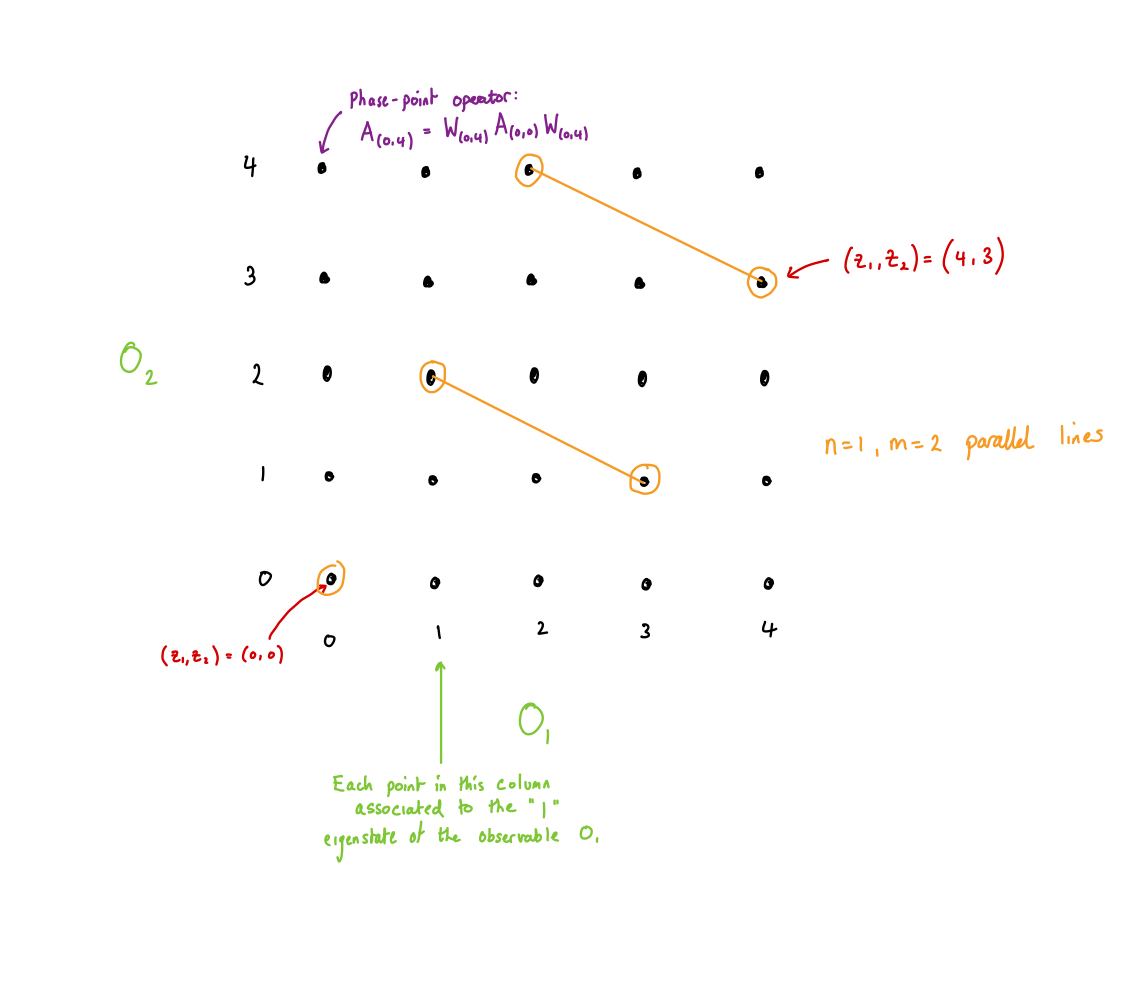
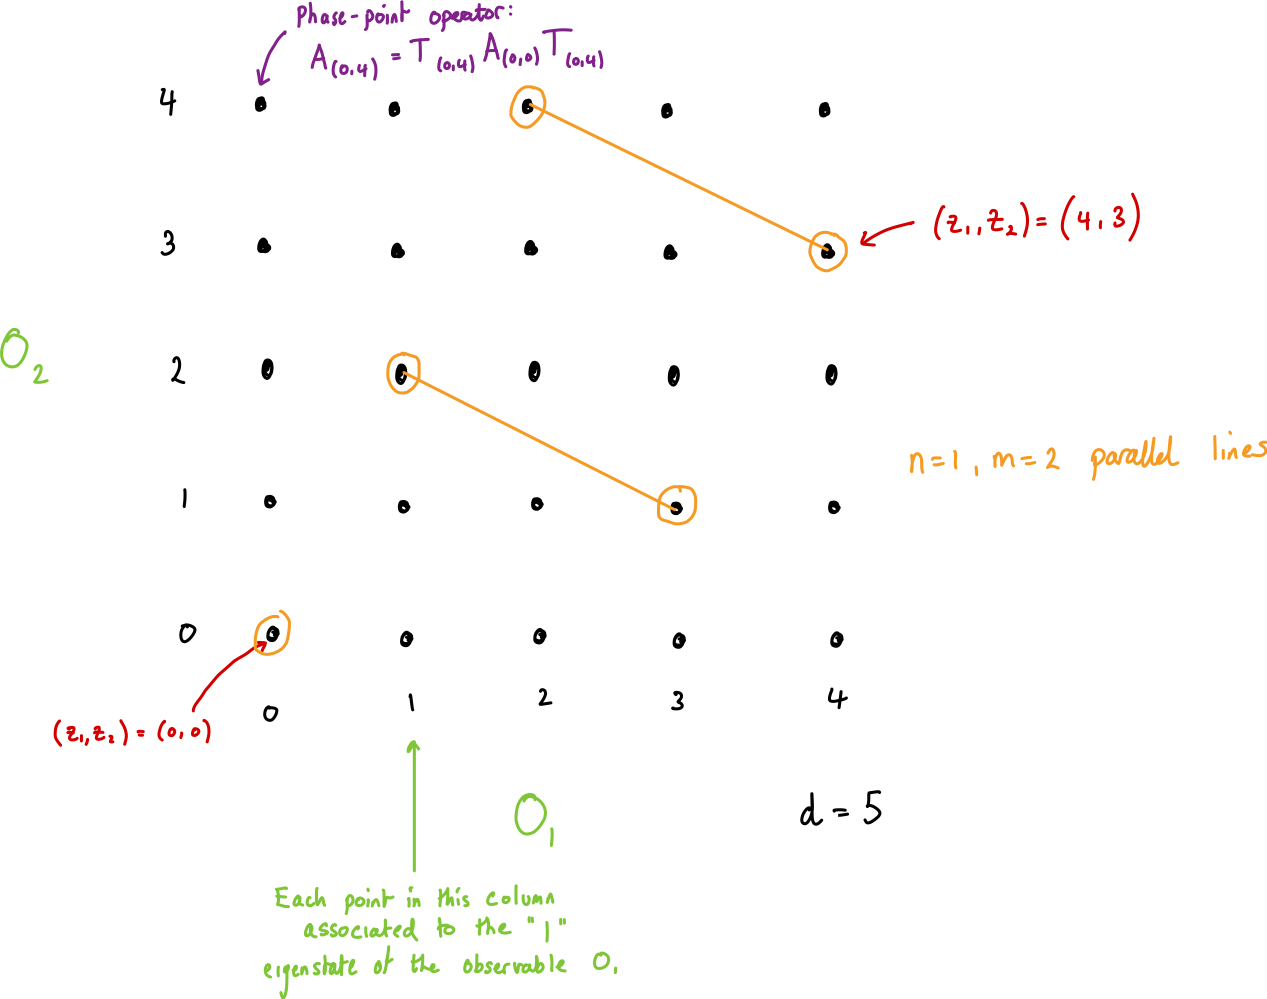
added to the Wigner function page again and made a few typo changes elsehwhere

diff --git a/QuantumInformationFile/QuantumInfo7_wignerFunctions.md b/QuantumInformationFile/QuantumInfo7_wignerFunctions.md
@@ -34,11 +34,53 @@ Let $\rho \in \mathcal{H}^d$ be the density operator of a particle that is able 
 \begin{equation}
 W^{\rho}(q, p) = \frac{1}{\pi \hbar} \int \bra{q-x} \rho \ket{q+x} e^{\frac{2ipx}{h}} dx,
 \end{equation}
-where $ q $ and $ p $ are the position and momentum operators (they could also be quadratures when considered quantum optics). 
+where $ q $ and $ p $ are the position and momentum operators (they could also be [quadratures](https://en.wikipedia.org/wiki/Optical_phase_space) when considered quantum optics). 
 
 Here, we will only consider the Wigner function for position and momentum, see https://doi.org/10.1002/qute.202100016 for details on the Wigner function for arbitrary operators. 
 
-**Properties** 
+**Properties of the Continuous Winger Function** 
+(winger_function_proerties_continious)=
+::::{tab-set}
+:::{tab-item} Normalisation
+:sync: tab1
+
+The Wigner function is normalised, 
+\begin{equation}
+\int \int W^{\rho}(p, q) dq ~ dp = 1.
+\end{equation}
+
+:::
+:::{tab-item} Inner Product 
+:sync: tab2
+
+Let $\rho, \rho' \in \mathcal{H}^d$ have Wigner functions $W^{\rho}(q,p)$ and $W^{\rho'}(q,p)$ respectively, then 
+\begin{equation}
+\textrm{tr}\big[ \rho \rho' \big] = \int \int W^{\rho}(q, p) W^{\rho'}(q, p) dq ~ dp.
+\end{equation}
+
+:::
+:::{tab-item} Observables
+:sync: tab3
+
+Let $O=a p + b q$ be an observable, where $a, b \in \mathbb{R}$, then 
+\begin{equation}
+P(c_1 \leq O \leq c_2) = \int_{c_1}^{c_2} \int_{c_1}^{c_2} W^{\rho}(p, q) dq ~ dp,
+\end{equation}
+where $c_1, c_2 \in \mathbb{R}$, and $P(\cdot)$ means the probability of getting the measurement outcome $(\cdot)$ if one measures $O$ on $ \rho $.
+
+:::
+:::{tab-item} Marginals 
+:sync: tab4
+
+The Wigner function can be used to find the marginals of the distribution as 
+\begin{align*}
+\int W^{\rho}(q,p) dp &= \bra{x} \rho \ket{x}, \\
+\int W^{\rho}(q,p) dq &= \bra{p} \rho \ket{p}.
+\end{align*}
+
+::::
+
+<!-- **Properties** 
 (winger_function_proerties_continious)=
 1. The Wigner function is normalised, 
 \begin{equation}
@@ -57,7 +99,7 @@ where $c_1, c_2 \in \mathbb{R}$, and $P(\cdot)$ means the probability of getting
 \begin{align*}
 \int W^{\rho}(q,p) dp &= \bra{x} \rho \ket{x}, \\
 \int W^{\rho}(q,p) dq &= \bra{p} \rho \ket{p}.
-\end{align*}
+\end{align*} -->
 
 
 ### Phase Space
@@ -66,7 +108,7 @@ The phase space on which the Wigner function is defined is $\mathbb{R}^2$. This 
 
 ### Phase Point Operators 
 
-The Wigner function for a state can be calculated using the so-called phase-point operators. These are a set of Hermitian operators, $\{A(q,p)\}$, so that there exists one operator for each point in phase space. 
+The Wigner function for a state can be calculated using the so-called phase-point operators. These are a set of Hermitian operators, $\{A(q,p)\}$. There exists one phase-point operator for each point in phase space. 
 
 The phase-point operators are defined such that 
 \begin{equation}
@@ -90,7 +132,9 @@ If the phase-point operators obey these properties, then the Winger functions ob
 
 Note, when considering the Wigner function for general operators, the phase point operators can be defined in terms of the action of a displacement operator on a fixed initial phase-point operator (as will be seen in the discrete case below). See https://doi.org/10.1002/qute.202100016 detail of this.
 
-The Wigner function is not the unique function that is able to represent quantum system. Each of the different formulations put forward have different merits, and hence can be useful in different situations. However, the Wigner is the mostly commonly used in the literature as it a) has the correct marginals ([property 4](#winger_function_proerties_continious) above), and b) it is the distribution for which the phase-point operators can be used to both decompose the state with coefficients of the Wigner function, and to calculate the Wigner function as the trace of the product of the phase-point operators and $\rho$. Other formulations require different states for these two operations. Again, see https://doi.org/10.1002/qute.202100016 for more details. 
+**Uniqueness**
+
+The Wigner function is not the unique function that is able to represent quantum systems. Each of the different formulations put forward have different merits, and hence can be useful in different situations. However, the Wigner function is the mostly commonly used in the literature as it a) has the correct marginals, and b) it is the function for which the phase-point operators can be used to both decompose the state with coefficients of the Wigner function, and to calculate the Wigner function as the trace of the product of the phase-point operators and $ \rho $. Other formulations require different operators for these two operations. Again, see https://doi.org/10.1002/qute.202100016 for more details on this. 
 
 ## Discrete Systems
 
@@ -110,7 +154,7 @@ Each axis of the space is represented by an observable. If the horizontal axis i
 
 ### Phase-point Operators 
 
-Each point in phase space is associated an Hermitian operator $A_{\bm{z}}$, giving a set of operators $\{ A_{\bm{z} }\}^{d^2}$. Each operators has the following properties: 
+Each point in phase space is associated an Hermitian operator $A_{\bm{z}}$, giving a set of operators $\{ A_{\bm{z} }\}^{d^2}$, one for each point in phase space. Each operator obeys the following properties: 
 (conditions_on_phase_point_operators)=
 1. $\textrm{tr} \big[ A_{\bm{z}} \big] = 1 ~ \forall ~ \bm{z} \in \mathbb{Z}_d \times \mathbb{Z}_d$.
 2. $\textrm{tr} \big[ A_{\bm{z_i}} A_{\bm{z_j}} \big] = d \delta_{i,j} ~ \forall ~ \bm{z_i}, \bm{z_j} \in \mathbb{Z}_d \times \mathbb{Z}_d$.
@@ -150,6 +194,14 @@ The phase point operators are then defined in terms of the Heisenberg-Weyl opera
 A_{\bm{0}} = \frac{1}{d} \sum_{\bm{z} \in \mathbb{Z}_d \times \mathbb{Z}_d} T_{\bm{z}}, ~ ~ ~ A_{\bm{z}} = T_{\bm{z}}A_{\bm{0}} T_{\bm{z}}. 
 \end{equation}
 
+**Additional Phase-point Operator Properties**
+1. $A_{\bm{z}}^{\dagger} = A_{\bm{z}}$
+    - They are Hermitian. 
+2. $\frac{1}{d}\sum_{\bm{z} \in \mathbb{Z}_d \times \mathbb{Z}_d} A_{\bm{z}} = \mathbb{I}$.
+    - They sum to the identity. 
+3. $ \{ A_{\bm{z}} \} = \{ A_{\bm{z}}^{t} \}$
+    - Taking the transpose off all elements of the set gives back the set.
+
 ```{figure} quantumInfo_phaseSpaceImage.png
 :alt: 
 :class: bg-primary
@@ -162,23 +214,23 @@ A graphical depiction of the phase space for the discrete Wigner function.
 
 ### The Discrete Wigner Function 
 
-Let $\rho \in \mathcal{H}^{d}$. Given [condition 2](#conditions_on_phase_point_operators) stated above in the list of properties of phase-point operators, the set of phase-point operators form a complete basis for the set of $d \times d$ Hermitian matrices. The discrete Wigner function, denoted $W^{\rho}_{\bm{z}}$ at the point $\bm{z}$ for the state $ \rho $, is then defined as
+Let $\rho \in \mathcal{H}^{d}$. Given [condition 2](#conditions_on_phase_point_operators) stated above in the list of properties of phase-point operators, the set of phase-point operators form a complete basis for the set of $d \times d$ Hermitian matrices. The discrete Wigner function, denoted $W^{\rho}(\bm{z})$ at the point $\bm{z}$ for the state $ \rho $, is then defined as
 \begin{equation}
-\rho = \sum_{\bm{z} \in \mathbb{Z}_d \times \mathbb{Z}_d }   W^{\rho}_{\bm{z}} A_{\bm{z}}, 
+\rho = \sum_{\bm{z} \in \mathbb{Z}_d \times \mathbb{Z}_d }   W^{\rho}(\bm{z}) A_{\bm{z}}, 
 \end{equation}
 such that 
 \begin{equation}
-W^{\rho}_{\bm{z}} = \frac{1}{d} \textrm{tr} \big[ \rho A_{\bm{z}} \big].
+W^{\rho}(\bm{z}) = \frac{1}{d} \textrm{tr} \big[ \rho A_{\bm{z}} \big].
 \end{equation}
 
 The discrete Wigner function then satisfies the following properties
 (discrete_winger_function_conditions)=
-1. $ \sum_{\bm{z} \in \mathbb{Z}_d \times \mathbb{Z}_d } W^{\rho}_{\bm{z}} = 1$. 
-2. Let $\rho, \rho' \in \mathcal{H}^d$ have Wigner functions $W^{\rho}$ and $W^{\rho'}$ respectively, then 
+1. $ \sum_{\bm{z} \in \mathbb{Z}_d \times \mathbb{Z}_d } W^{\rho}(\bm{z}) = 1$. 
+2. Let $\rho, \rho' \in \mathcal{H}^d$ have Wigner functions $W^{\rho}(\bm{z})$ and $W^{\rho'}(\bm{z})$ respectively, then 
 \begin{equation}
-\textrm{tr} \big[ \rho \rho' \big] = d \sum_{\bm{z} \in \mathbb{Z}_d \times \mathbb{Z}_d } W^{\rho}_{\bm{z}} W^{\rho'}_{\bm{z}}.
+\textrm{tr} \big[ \rho \rho' \big] = d \sum_{\bm{z} \in \mathbb{Z}_d \times \mathbb{Z}_d } W^{\rho}(\bm{z}) W^{\rho'}(\bm{z}).
 \end{equation}
-3. The phase space can be foliated into a set of $d$ parallel lines. For each line, given by $ \lambda $, the sum over the Wigner functions for the points in $ \lambda $, $p_{\lambda} = \sum_{\lambda} W^{\rho}_\lambda$, describes the probability of a measurement associated to that foliation. The eigenstate associated to this measurement is that of the projection operator, given in [condition 3](#conditions_on_phase_point_operators), for the given foliation. 
+3. The phase space can be foliated into a set of $d$ parallel lines. For each line, given by $ \lambda $, the sum over the Wigner functions for the points in $ \lambda $, $p_{\lambda} = \sum_{\lambda} W^{\rho}_\lambda(\bm{z})$, describes the probability of a measurement associated to that foliation. The eigenstate associated to this measurement is that of the projection operator, given in [condition 3](#conditions_on_phase_point_operators), for the given foliation. 
 
 Note, the Wigner function can be negative, meaning it cannot be directly interpreted as a probability distribution. As with the state vector or density operator, it is instead an object from which probabilities of measurement outcomes can be found. 
 
@@ -231,18 +283,18 @@ See https://dx.doi.org/10.1088/1367-2630/14/11/113011 and https://dx.doi.org/10.
 
 1. Discrete Hudson's Theorem (prime dimensions): A pure state, $\ket{S}$, is a stabliser state, $\ket{S} \in \textrm{STAB}$, if and only if it has positve Wigner representation 
 \begin{equation}
-W^{\ket{S}}_{\bm{z}} \geq 0 ~ \forall ~\bm{z} \in \mathbb{Z}_d \times \mathbb{Z}_d.
+W^{\ket{S}}(\bm{z}) \geq 0 ~ \forall ~\bm{z} \in \mathbb{Z}_d \times \mathbb{Z}_d.
 \end{equation}
 2. Clifford operators act as permutations of the phase-space
 \begin{equation}
-W_{\bm{z}}^{U \rho U^{\dagger}} = W_{\bm{z'}}^{\rho}, ~ ~ U \in C.
+W^{U \rho U^{\dagger}}(\bm{z}) = W^{\rho}(\bm{z}), ~ ~ U \in C.
 \end{equation}
 Although, only the [symplectic](https://en.wikipedia.org/wiki/Symplectic_matrix) permutations of phase space correspond to clifford operators. 
 
 3. As discussed above, the phase-point operators are a basis for all $d \times d$ Hermitian matrices. Hence, the trace of any Hermitain matrix can be found by summing over it's Wigner function for all point in phase space, 
 \begin{align*}
-B &= \sum_{\bm{z} \in \mathbb{Z}_d \times \mathbb{Z}_d} W^{B}_{\bm{z}} A_{\bm{z}}, \\
-\textrm{tr} \big[ B \big] &= \sum_{\bm{z} \in \mathbb{Z}_d \times \mathbb{Z}_d} W^{B}_{\bm{z}},
+B &= \sum_{\bm{z} \in \mathbb{Z}_d \times \mathbb{Z}_d} W^{B}(\bm{z}) A_{\bm{z}}, \\
+\textrm{tr} \big[ B \big] &= \sum_{\bm{z} \in \mathbb{Z}_d \times \mathbb{Z}_d} W^{B}(\bm{z}),
 \end{align*}
 where the fact that $\textrm{tr}\big[ A_{\bm{z}} \big] = 1 ~\forall~\bm{z} \in \mathbb{Z}_d \times \mathbb{Z}_d$ has been used. 
 

diff --git a/quantumFormalism/quantumFormalism8_observables.md b/quantumFormalism/quantumFormalism8_observables.md
@@ -168,7 +168,9 @@ A = \sum_{i} \lambda_i P_{i},
 \end{equation}
 where $P_i$ is the projection onto the eigenspace of $A$ with eigenvalue $\lambda_i$, and $\ket{\psi}\in\mathcal{H}$. 
 
-**Probabilities of Measurement Outcomes:** the probability of measuring the observable $A$ on $\ket{\psi}$ [💭](#Probability_Notation_equation) and getting the outcome $\lambda_i$ is 
+### Probabilities of Measurement Outcomes
+
+The probability of measuring the observable $A$ on $\ket{\psi}$ [💭](#Probability_Notation_equation) and getting the outcome $\lambda_i$ is 
 \begin{equation}
 P(\lambda_i \vert A) = \bra{\psi} P_i \ket{\psi}.
 \end{equation}
@@ -185,7 +187,9 @@ where $p_i = \braket{\lambda_i|\psi}$. It can therefore be seen that $\vert p_i 
 
 Therefore, when considering measuring the observable $A$ on a state $\psi$, one should first decompose the state $\ket{\psi}$ in the eigenbasis of $A$. The coefficients of the decomposition can then be used to find the probabilities of getting the different measurement outcomes. Note, when measuring the observable $A$ one should **not** apply the observable to the state. 
 
-**State After Measurement:** after measuring an observable $A$ on the state $\ket{\psi}$ and getting the outcome $\lambda_i$ the post measurement state, $\ket{\psi_{\rm post}}$, is the state $\ket{\psi}$ projected into the eigenspace of the $A$ with eigenvalue $\lambda_i$,
+### Post Measurement State:
+
+After measuring an observable $A$ on the state $\ket{\psi}$ and getting the outcome $\lambda_i$ the post measurement state, $\ket{\psi_{\rm post}}$, is the state $\ket{\psi}$ projected into the eigenspace of the $A$ with eigenvalue $\lambda_i$,
 \begin{align*}
 \ket{\psi_{\rm post}} &= \frac{P_{i} \ket{\psi}}{ \vert \vert P_i \ket{\psi} \vert \vert_2}, \\
 &= \frac{P_{i} \ket{\psi}}{ \sqrt{P(\lambda_i | A)} }
@@ -200,7 +204,9 @@ where $ \vert \vert \cdot \vert \vert_2$ is the [2-norm](#l2_norm_norms_page_tar
 \end{align*}
 where we have used the fact that projection operators onto eigenspaces of hermitian operators are hermitian, $P_i^{\dagger}=P_i$ and $P_i^{2} = P_iP_i = P_i$. 
 
-**Expectation Values:** the expectation value of an observable is the average outcome one would expect if measuring $A$ on many copies of a state, 
+### Expectation Values
+
+The expectation value of an observable is the average outcome one would expect if measuring $A$ on many copies of a state, 
 \begin{align*}
 \braket{A} = \sum_i \lambda_i P(\lambda_i \vert A),
 \end{align*} 
